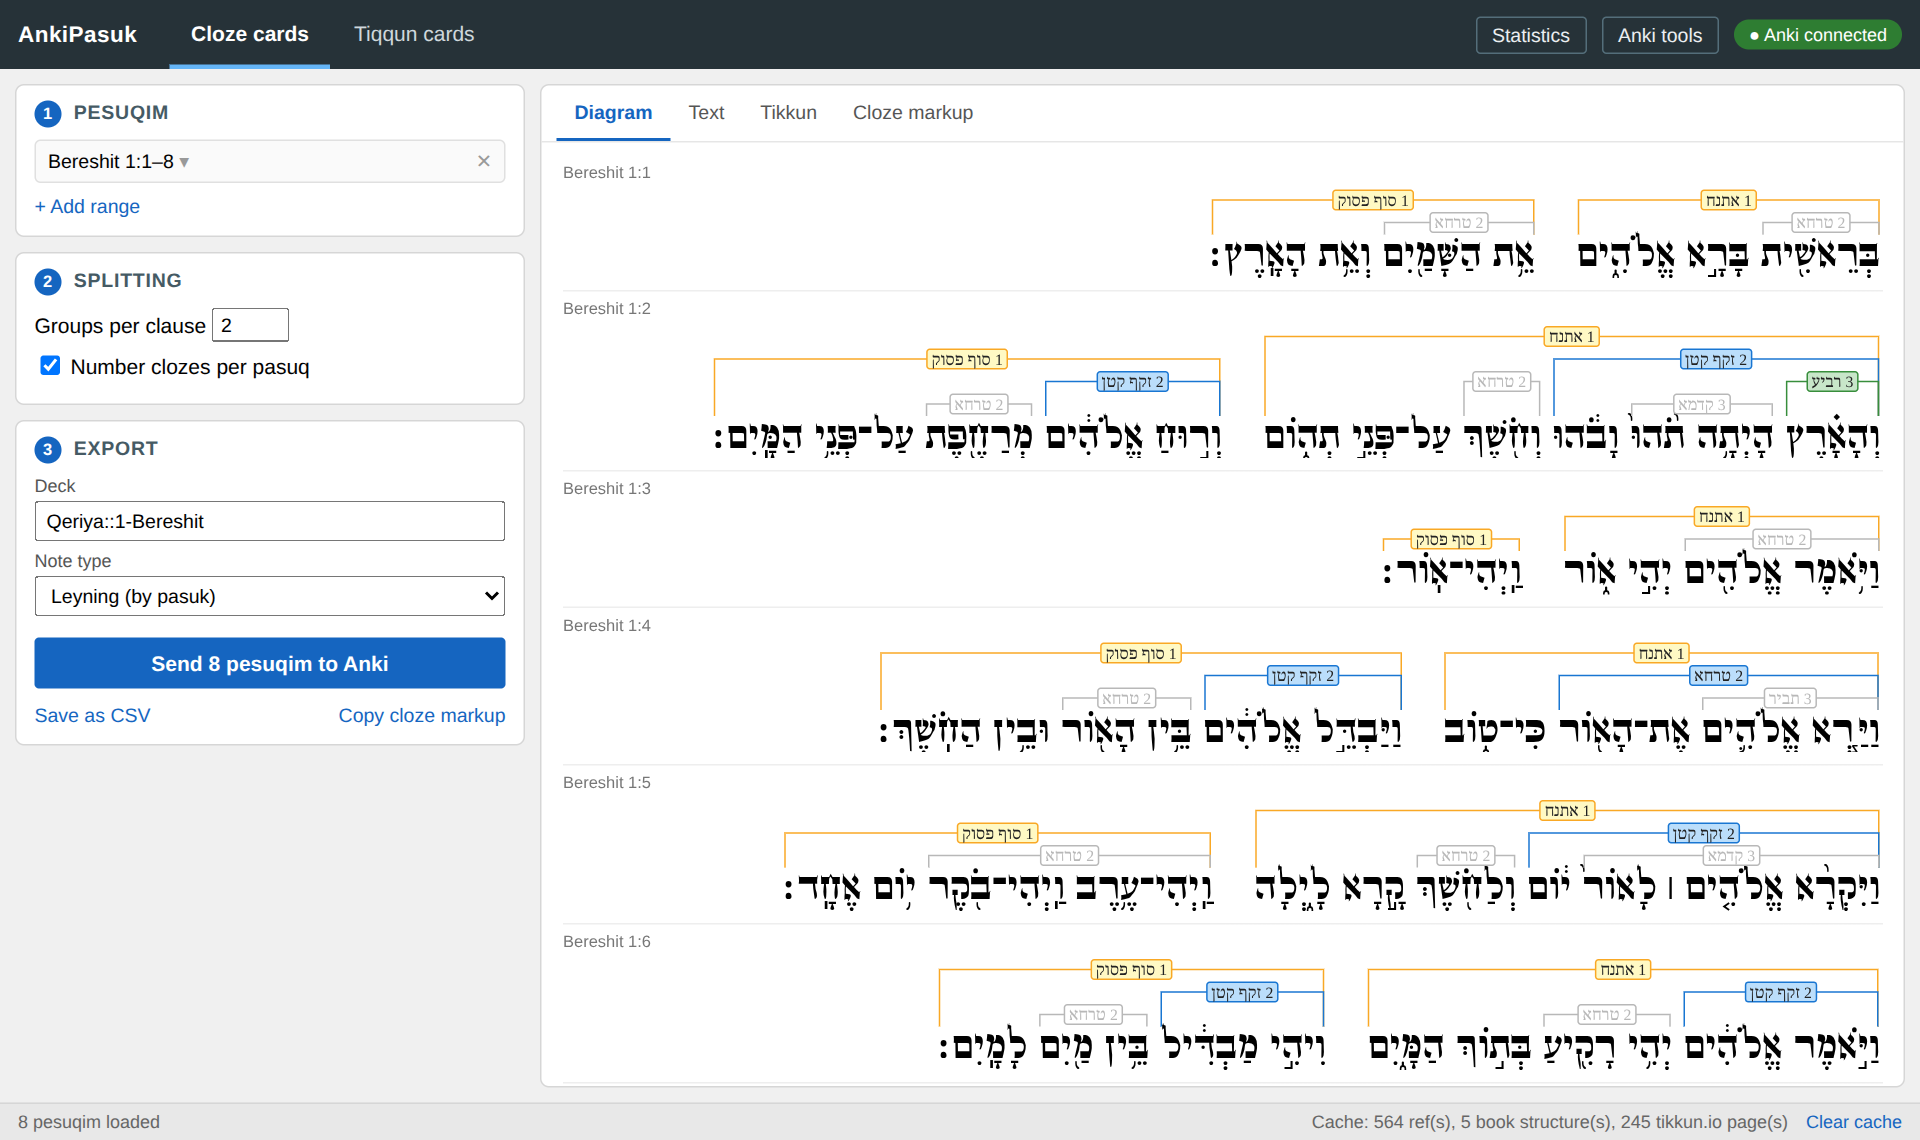
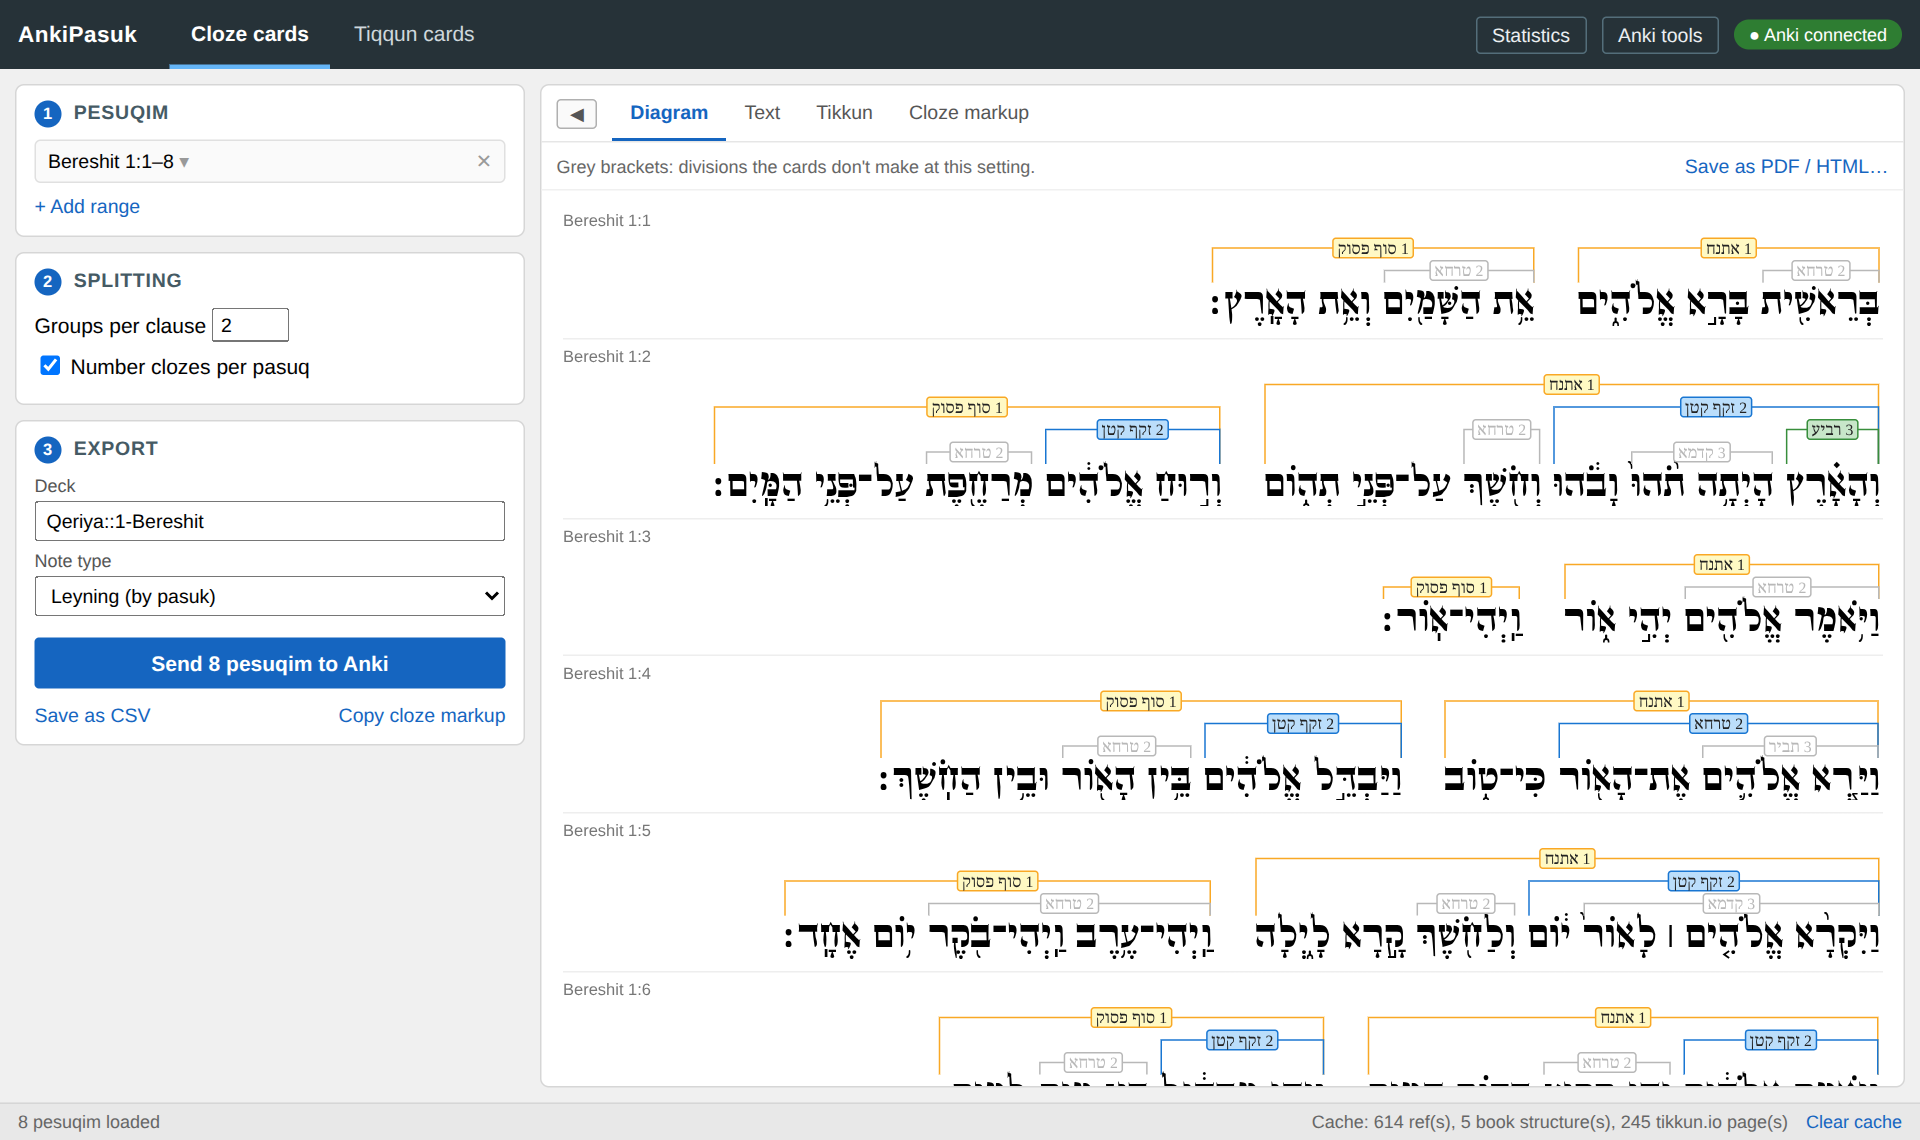
0.2.0: a changelog, the README's intro and screenshots
- CHANGELOG.md, from 0.1.0 (the first, tkinter version) to now.
- The version lives in ankipasuk.__version__ alone; pyproject reads it.
- The README's intro says what the Text view does for studying the text,
  with a screenshot of it (shorashim coloured, a refrain underlined, the
  Phrases pane); the main window, tiqqun and statistics screenshots are
  re-taken for today's app.
- A picked phrase's underline takes a colour no coloured shoresh has, so
  the two aren't confused.
- CI's checkout and setup-python actions on their Node 24 versions.

diff --git a/src/ankipasuk/webgui/static/phrases.js b/src/ankipasuk/webgui/static/phrases.js
@@ -230,14 +230,16 @@ function openPhraseViewer(p, kind, calls, place = 0) {
 }
 
 // Which phrases are underlined, in which colour: as RootColours (click
-// order, the first free colour of the same palette), but marking words
+// order, the first free colour of the same palette, skipping those
+// ``taken()`` gives -- the coloured shorashim's), but marking words
 // -- ``[pasuq, word]`` -- under each line of the text (``.tv-line``,
 // ``data-i`` its pasuq; a word ``[data-k]``, what follows it ``[data-s]``).
 // Each picked phrase keeps one track, the first no phrase sharing a word
 // with it has, so its line stays at one depth from its first word to its
 // last, and runs on between them.
 class PhraseMarks {
-    constructor(onChange) {
+    constructor(onChange, taken = () => []) {
+        this.taken = taken;
         this.colours = new Map(); // phrase id -> palette index
         this.clicks = 0;
         this.phrases = [];
@@ -257,7 +259,7 @@ class PhraseMarks {
         if (this.colours.has(id)) {
             this.colours.delete(id);
         } else {
-            const used = new Set(this.colours.values());
+            const used = new Set([...this.colours.values(), ...this.taken()]);
             let colour = ROOT_PALETTE.findIndex((_c, i) => !used.has(i));
             if (colour < 0) colour = this.clicks % ROOT_PALETTE.length;
             this.colours.set(id, colour);

diff --git a/src/ankipasuk/webgui/static/app.js b/src/ankipasuk/webgui/static/app.js
@@ -515,7 +515,7 @@ const phraseCalls = {
 const phraseMarks = new PhraseMarks((words) => {
     phraseMarks.paint(document.getElementById("text-box"), words);
     paintPhraseList();
-});
+}, () => rootColours.colours.values());  // a phrase's line in a colour no coloured shoresh has
 
 // =============================================================
 //  Settings: the phrase tests' thresholds (api.get_settings), in a

diff --git a/src/ankipasuk/__init__.py b/src/ankipasuk/__init__.py
@@ -1,10 +1,12 @@
 """AnkiPasuk: Anki cards for reading from the sefer -- nested cloze cards
-split along the ta'amim, and tiqqun cards laid out as in the sefer.
+split along the ta'amim, and tiqqun cards laid out as in the sefer -- and
+the text's shorashim and recurring phrases.
 
 The package is split into a GUI-free core (config, cache, sefaria,
-text_processing, cloze, stats, structure, qeriya, tikkun, ...) and a
-web GUI (ankipasuk.webgui) built on top of it. The core has no GUI dependency, so it can be imported, tested,
-or scripted without a display.
+text_processing, cloze, stats, structure, qeriya, tikkun, shorashim,
+phrases, ...) and a web GUI (ankipasuk.webgui) built on top of it. The
+core has no GUI dependency, so it can be imported, tested, or scripted
+without a display.
 """
 
-__version__ = "0.1.0"
+__version__ = "0.2.0"  # also the package's (pyproject.toml reads it); see CHANGELOG.md

diff --git a/CHANGELOG.md b/CHANGELOG.md
@@ -1,0 +1,58 @@
+# Changelog
+
+## 0.2.0 — 2026-10-21
+
+The app now studies the text as well as making cards: the shorashim and
+the recurring phrases of whatever is loaded.
+
+### Added
+
+- **Shorashim** in the Text view: click a word to colour every word of its
+  root, with the passage's roots listed beside the text, their glosses,
+  and a **Key words** order (the roots the passage uses far more than the
+  Tanakh does). Homonymous roots are numbered; names and peoples are told
+  apart. Data from the Open Scriptures Hebrew Bible, bundled.
+- **Phrases**: the passage's refrains, echoes of other places in the
+  Tanakh, and idioms, with formulas set apart (`docs/phrases.md`). Pick a
+  phrase to underline it and step through its occurrences (‹ 2/6 ›); open
+  an echo's other place in its whole chapter. Each section shows its 12
+  strongest, with Show all. **Settings…** in the pane sets the tests'
+  thresholds.
+- **Diagrams** in Joshua Jacobson's style for every pasuq, and the diagram
+  view saved as PDF or HTML pages, with a preview.
+- **Tiqqun cards** laid out as in the sefer (tikkun.io), by 'ammud, as CSV
+  or straight to Anki, and 'ammudim as HTML or PDF pages; hovering a word
+  on the answer side shows its pointing.
+- **Haftarot**, ranges from one 'aliyya to another, the Nevi'im and the
+  five Megillot, and several ranges at once.
+- **Cloze cards straight to Anki** through AnkiConnect, adding only
+  pesuqim that have no note yet.
+- **Statistics**: diagrams for the most common structures, and Shorashim
+  and Phrases tabs.
+- **Linux support**: the web view's backend is detected, and the README
+  says what to install.
+- One transliteration throughout (`docs/transliteration.md`), and **Migrate
+  Tags** to rename tags in the old spelling.
+- Browser tests of the app's pages, in Chromium and WebKit, in CI.
+
+### Changed
+
+- The main window: tabs for the two kinds of card, numbered steps beside a
+  live preview, and a settings column that folds away.
+- A failed fetch says what went wrong in words (couldn't reach Sefaria,
+  check the connection), not the network library's error.
+- The tkinter interface, replaced by the web view since August, is
+  removed.
+
+### Fixed
+
+- God's name counted as a person's name in the phrase formulas, hiding
+  phrases like בית יהוה.
+- The window didn't start where the web view has no storage.
+- The maftir could be cut short by a stale verse count; rapid cache writes
+  crashed on Windows; large decks timed out in the Anki tools.
+
+## 0.1.0 — 2026-08-30
+
+The first version: nested cloze cards split along the ta'amim, from
+Sefaria's text, in a tkinter window.

diff --git a/README.md b/README.md
@@ -23,9 +23,18 @@ coloured, so you can see the whole division at a glance.
 
 ![The main window: Bereshit 1:1–8, each pasuq drawn as its diagram](docs/images/app-cloze.png)
 
+To study the text itself, the **Text** view colours every word of a
+shoresh you click and ranks the passage's key words, and lists its
+recurring phrases: refrains, echoes of other places in the Tanakh, and
+idioms, each a click away from its other places (see
+[Shorashim](#shorashim) and [Phrases](#phrases)).
+
+![The Text view: Bereshit 1:1–2:3, two shorashim coloured and a refrain underlined, the Phrases pane beside it](docs/images/app-text.png)
+
 There's also a statistics window for whatever you've loaded, including a
 way to find pesuqim that share the same ta'amim structure, and a few
-optional tools that work on your Anki collection directly.
+optional tools that work on your Anki collection directly. What changed
+in each version is in [`CHANGELOG.md`](CHANGELOG.md).
 
 ## Contents
 
@@ -613,8 +622,9 @@ tikkun.io's pages and font are all kept on disk:
 - Anywhere else, if you set `ANKIPASUK_CACHE_DIR`
 
 **Clear cache**, at the bottom of the main window, empties it. Your own
-settings (the last deck and note type you sent cloze notes to, in
-`settings.json`, and the layout controls, in `webview_storage/`) live in
+settings (the last deck and note type you sent cloze notes to and the
+phrase settings, in `settings.json`, and the layout controls, in
+`webview_storage/`) live in
 the same folder and aren't touched by it.
 
 ## For developers

diff --git a/docs/phrases.md b/docs/phrases.md
@@ -241,7 +241,8 @@ test):
     here and where else: an echo's places, each a link, or "35
     elsewhere", a link too (the other pesuqim it's in).
   - Clicking a row underlines the phrase in the text, in the palette's
-    colours (the shorashim's, in click order), and shows an occurrence:
+    colours (the shorashim's, in click order, skipping those the coloured
+    shorashim have), and shows an occurrence:
     the first one in view, or else the first, brought into view and
     flashed. The row is marked in the same colour. **Clear colours**
     clears roots and phrases. Each underline is one line from a phrase's
